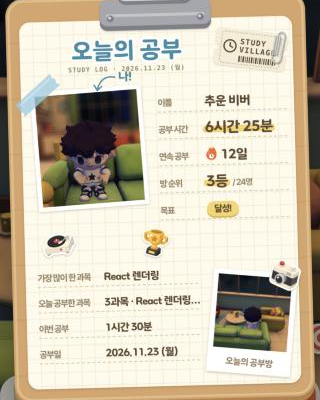
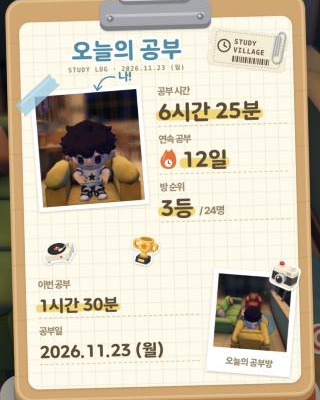
feat(web/study): trim the study sheet to time, streak, rank and date
The name, goal and subject rows are removed from the study sheet. The
remaining items are stacked as a small label over a large highlighted
value: study time, streak and room rank on the right, this session and
the study date below.

diff --git a/frontend/src/feature/study/recap/cardDraw.ts b/frontend/src/feature/study/recap/cardDraw.ts
@@ -1,7 +1,8 @@
 // "오늘의 공부" 시트: 스토리에 올려 오늘 공부한 결과를 자랑하는 클립보드 프로필 시트 한 장.
 // 구성은 사용자가 준 클립보드 프로필 레퍼런스(2026-11-23)를 따른다: 나무 판 + 금속 집게, 크림 종이, 큰 제목, 마스킹
-// 테이프로 붙인 내 사진("나!" 화살표), 오른쪽 항목 줄(이름·공부 시간·연속 공부·방 순위·목표), 아래 항목 줄(과목·이번 공부·
-// 공부일), 폴라로이드(오늘의 공부방), 티켓 스티커와 클립, 앱 스티커. 레퍼런스의 캐릭터·로고·문구는 쓰지 않는다.
+// 테이프로 붙인 내 사진("나!" 화살표), 오른쪽 큰 항목(공부 시간·연속 공부·방 순위), 아래 큰 항목(이번 공부·공부일),
+// 폴라로이드(오늘의 공부방), 티켓 스티커와 클립, 앱 스티커. 레퍼런스의 캐릭터·로고·문구는 쓰지 않는다.
+// 이름·목표·과목은 넣지 않고 남은 항목을 크게 쓴다(사용자 결정 2026-11-23).
 // 톤은 앱 공부 화면: 섬 팔레트 낮 값(tokens.css), 둥근 글꼴, 햇살 노랑 강조, 앱 스티커 아트(원본 PocketTime
 // assets/icons/study_*.png). 화면과 저장 이미지(인스타그램 스토리 1080×1920)는 같은 함수로 그린다.
 // 다크 모드에서 저장해도 같은 이미지가 나오도록 값은 낮 팔레트로 고정한다.
@@ -10,7 +11,7 @@ import { t } from '../../../l10n/t'
 import { webText } from '../../../l10n/web_ko'
 import { formatStudyDuration } from '../home/studyFormat'
 import { flameShape } from '../stats/StreakFlame'
-import { goalReached, type StudyRecap } from './studyRecap'
+import type { StudyRecap } from './studyRecap'
 
 /** 섬 팔레트 낮 값(tokens.css :root·.palette-day)과 판·집게 색. */
 const c = {
@@ -49,10 +50,9 @@ export type CardAssets = Record<keyof typeof stickerUrls, HTMLImageElement>
 /** 글꼴과 스티커 그림을 미리 읽는다(웹 글꼴은 처음 쓰일 때 내려받아 첫 그림에 빠질 수 있다). */
 export async function loadCardAssets(recap: StudyRecap): Promise<CardAssets> {
   const sample = [
-    webText.recapSheetTitle, webText.recapSheetBrand, webText.recapMe, webText.recapScene, recap.nickname, goalText(recap) ?? '',
-    ...Object.values(webText.recapFields), ...recap.subjects.map((s) => s.subject ?? t('studySubjectNone')),
+    webText.recapSheetTitle, webText.recapSheetBrand, webText.recapMe, webText.recapScene, ...Object.values(webText.recapFields),
     formatStudyDuration(recap.todaySeconds), formatStudyDuration(recap.sessionSeconds), webText.recapBrand,
-    '0123456789.·+/%!()시간분일등명과목월화수목금토일', t('studySubjectNone'),
+    '0123456789.·/!()시간분일등명월화수목금토일',
   ].join('')
   const load = (src: string) => new Promise<HTMLImageElement>((resolve, reject) => {
     const img = new Image()
@@ -66,15 +66,6 @@ export async function loadCardAssets(recap: StudyRecap): Promise<CardAssets> {
     ...[600, 700, 800].map((w) => document.fonts.load(`${w} 16px ${fonts.sans}`, sample)),
   ] as const)
   return { trophy, focus, music, camera }
-}
-
-/** 목표 줄: 채웠으면 "달성!", 못 채웠으면 "n%", 목표가 없고 어제보다 더 했으면 "어제보다 +n". 아니면 줄을 뺀다. */
-function goalText(recap: StudyRecap): string | null {
-  if (goalReached(recap)) return webText.recapGoalDone
-  if (recap.goalSeconds != null && recap.goalSeconds > 0) return webText.recapGoalPercentShort(Math.floor((recap.todaySeconds * 100) / recap.goalSeconds))
-  const diff = recap.todaySeconds - recap.yesterdaySeconds
-  if (diff > 0 && Math.trunc(diff / 60) > 0) return webText.recapMoreChip(formatStudyDuration(diff))
-  return null
 }
 
 const weekdays = ['월', '화', '수', '목', '금', '토', '일']
@@ -106,9 +97,9 @@ export function drawSheet(ctx: CanvasRenderingContext2D, recap: StudyRecap, asse
   drawTicket(ctx, recap, 322, top + 76)
   drawPortrait(ctx, recap)
   drawTopRows(ctx, recap)
-  sticker(ctx, assets.music, 64, top + 330, 46, -14)
-  if (recap.rank) sticker(ctx, assets.trophy, 192, top + 330, 40, 10)
-  else sticker(ctx, assets.focus, 192, top + 332, 36, 10)
+  sticker(ctx, assets.music, 64, top + 340, 46, -14)
+  if (recap.rank) sticker(ctx, assets.trophy, 178, top + 340, 42, 10)
+  else sticker(ctx, assets.focus, 178, top + 342, 38, 10)
   drawBottomRows(ctx, recap)
   drawPolaroid(ctx, recap, assets)
 }
@@ -242,64 +233,47 @@ function drawPortrait(ctx: CanvasRenderingContext2D, recap: StudyRecap) {
 
 type Row = { label: string; draw: (x: number, base: number, maxW: number) => void }
 
-/** 항목 줄 한 묶음: 라벨(굵은 갈색) + 값 + 점선 밑줄. */
-function rows(ctx: CanvasRenderingContext2D, list: Row[], x: number, valueX: number, right: number, startY: number, rowH: number) {
+/** 큰 항목 한 묶음: 라벨(작게, 위) → 값(크게, 아래) → 점선 밑줄. */
+function rows(ctx: CanvasRenderingContext2D, list: Row[], x: number, right: number, startY: number, rowH: number) {
   list.forEach((r, i) => {
-    const base = startY + i * rowH + rowH - 12
-    text(ctx, r.label, x, base, { font: `800 12px ${fonts.sans}`, color: c.inkSoft })
-    r.draw(valueX, base, right - valueX)
+    const y = startY + i * rowH
+    text(ctx, r.label, x, y + 15, { font: `800 13px ${fonts.sans}`, color: c.inkSoft })
+    const base = y + rowH - 16
+    r.draw(x, base, right - x)
     ctx.save()
     ctx.strokeStyle = c.dash; ctx.lineWidth = 1.2; ctx.setLineDash([4, 3])
-    ctx.beginPath(); ctx.moveTo(x, base + 8); ctx.lineTo(right, base + 8); ctx.stroke()
+    ctx.beginPath(); ctx.moveTo(x, base + 9); ctx.lineTo(right, base + 9); ctx.stroke()
     ctx.restore()
   })
 }
 
 function drawTopRows(ctx: CanvasRenderingContext2D, recap: StudyRecap) {
-  const goal = goalText(recap)
+  const big = `800 28px ${fonts.round}`
   const list: Row[] = [
-    { label: webText.recapFields.name, draw: (x, b, w) => text(ctx, ellipsize(ctx, recap.nickname, `800 16px ${fonts.round}`, w), x, b, { font: `800 16px ${fonts.round}`, color: c.ink }) },
-    { label: webText.recapFields.time, draw: (x, b) => highlight(ctx, formatStudyDuration(recap.todaySeconds), x, b, `800 19px ${fonts.round}`) },
+    { label: webText.recapFields.time, draw: (x, b) => highlight(ctx, formatStudyDuration(recap.todaySeconds), x, b, big) },
     { label: webText.recapFields.streak, draw: (x, b) => {
-      flame(ctx, x, b - 16, 18, recap.streakDays > 0)
-      text(ctx, t('studyStatsStreakValue', { count: recap.streakDays }), x + 20, b, { font: `800 17px ${fonts.round}`, color: recap.streakDays > 0 ? c.ink : c.inkSoft })
+      flame(ctx, x, b - 25, 28, recap.streakDays > 0)
+      highlight(ctx, t('studyStatsStreakValue', { count: recap.streakDays }), x + 30, b, big, recap.streakDays > 0 ? c.ink : c.inkSoft)
     } },
   ]
   if (recap.rank) {
     const rank = recap.rank
     list.push({ label: webText.recapFields.rank, draw: (x, b) => {
       const num = `${rank.position}${webText.recapRankUnit}`
-      highlight(ctx, num, x, b, `800 19px ${fonts.round}`)
-      text(ctx, webText.recapRankTotal(rank.total), x + measure(ctx, num, `800 19px ${fonts.round}`) + 6, b, { font: `700 11.5px ${fonts.sans}`, color: c.inkSoft })
+      highlight(ctx, num, x, b, big)
+      text(ctx, webText.recapRankTotal(rank.total), x + measure(ctx, num, big) + 8, b, { font: `800 14px ${fonts.sans}`, color: c.inkSoft })
     } })
   }
-  if (goal) {
-    list.push({ label: webText.recapFields.goal, draw: (x, b) => {
-      if (goalReached(recap)) {
-        const font = `800 12.5px ${fonts.sans}`
-        const w = measure(ctx, goal, font) + 20
-        ctx.fillStyle = c.sunLedge; ctx.beginPath(); ctx.roundRect(x, b - 15 + 2, w, 20, 10); ctx.fill()
-        ctx.fillStyle = c.sun; ctx.beginPath(); ctx.roundRect(x, b - 15, w, 20, 10); ctx.fill()
-        text(ctx, goal, x + 10, b - 1, { font, color: c.onSun })
-      } else {
-        text(ctx, goal, x, b, { font: `800 14px ${fonts.round}`, color: c.ink })
-      }
-    } })
-  }
-  rows(ctx, list, 200, 262, 372, top + 124, 36)
+  rows(ctx, list, 200, 372, top + 118, 64)
 }
 
 function drawBottomRows(ctx: CanvasRenderingContext2D, recap: StudyRecap) {
-  const names = recap.subjects.map((s) => s.subject ?? t('studySubjectNone'))
-  const valueFont = `800 13.5px ${fonts.round}`
-  const plain = (value: string) => (x: number, b: number, w: number) => text(ctx, ellipsize(ctx, value, valueFont, w), x, b, { font: valueFont, color: c.ink })
+  const font = `800 22px ${fonts.round}`
   const list: Row[] = [
-    { label: webText.recapFields.topSubject, draw: plain(names[0] ?? t('studySubjectNone')) },
-    { label: webText.recapFields.subjects, draw: plain(names.length > 0 ? `${webText.recapSubjectCount(names.length)} · ${names.join(', ')}` : t('studySubjectNone')) },
-    { label: webText.recapFields.session, draw: plain(formatStudyDuration(recap.sessionSeconds)) },
-    { label: webText.recapFields.date, draw: plain(dateText(recap.studyDate)) },
+    { label: webText.recapFields.session, draw: (x, b) => highlight(ctx, formatStudyDuration(recap.sessionSeconds), x, b, font) },
+    { label: webText.recapFields.date, draw: (x, b, w) => text(ctx, ellipsize(ctx, dateText(recap.studyDate), font, w), x, b, { font, color: c.ink }) },
   ]
-  rows(ctx, list, 34, 122, 250, top + 356, 34)
+  rows(ctx, list, 34, 250, top + 372, 62)
 }
 
 /** 폴라로이드: 3인칭으로 본 오늘의 공부방, 아래 여백에 글씨, 카메라 스티커. */
@@ -377,11 +351,12 @@ function photo(ctx: CanvasRenderingContext2D, img: HTMLCanvasElement | null, x: 
 }
 
 /** 숫자에 햇살 형광펜을 긋고 쓴다. */
-function highlight(ctx: CanvasRenderingContext2D, value: string, x: number, base: number, font: string) {
+function highlight(ctx: CanvasRenderingContext2D, value: string, x: number, base: number, font: string, color: string = c.ink) {
   const w = measure(ctx, value, font)
+  const size = Number(/(\d+)px/.exec(font)?.[1] ?? 16)
   ctx.fillStyle = c.sun
-  ctx.beginPath(); ctx.roundRect(x - 3, base - 8, w + 6, 9, 4); ctx.fill()
-  text(ctx, value, x, base, { font, color: c.ink })
+  ctx.beginPath(); ctx.roundRect(x - 3, base - size * 0.42, w + 6, size * 0.48, size * 0.2); ctx.fill()
+  text(ctx, value, x, base, { font, color })
 }
 
 function sticker(ctx: CanvasRenderingContext2D, img: HTMLImageElement, cx: number, cy: number, size: number, deg: number) {

diff --git a/frontend/src/l10n/web_ko.ts b/frontend/src/l10n/web_ko.ts
@@ -33,22 +33,14 @@ export const webText = {
   recapMe: '나!',
   recapScene: '오늘의 공부방',
   recapFields: {
-    name: '이름',
     time: '공부 시간',
     streak: '연속 공부',
     rank: '방 순위',
-    goal: '목표',
-    topSubject: '가장 많이 한 과목',
-    subjects: '오늘 공부한 과목',
     session: '이번 공부',
     date: '공부일',
   },
   recapRankUnit: '등',
   recapRankTotal: (total: number) => `/ ${total}명`,
-  recapSubjectCount: (count: number) => `${count}과목`,
-  recapGoalDone: '달성!',
-  recapGoalPercentShort: (percent: number) => `${percent}%`,
-  recapMoreChip: (duration: string) => `어제보다 +${duration}`,
   recapSave: '이미지 저장',
   recapSaving: '이미지를 만드는 중',
   recapShare: '공유하기',

diff --git a/frontend/src/feature/study/recap/studyRecap.ts b/frontend/src/feature/study/recap/studyRecap.ts
@@ -51,7 +51,3 @@ export function buildRecap(input: {
     rank: null,
   }
 }
-
-export function goalReached(recap: StudyRecap): boolean {
-  return recap.goalSeconds != null && recap.goalSeconds > 0 && recap.todaySeconds >= recap.goalSeconds
-}

diff --git a/docs/design-parity/exceptions.md b/docs/design-parity/exceptions.md
@@ -22,6 +22,6 @@
 - **3D 방 부드러운 룩(기본)**: 셀 셰이딩 단 대신 넓은 감싸기 조명(빛 쪽 크림·그늘 쪽 라벤더)과 반구 조명, 화면 공간 접촉 그늘(½ 해상도 8탭, 높은 단계만), 그 자리 색을 어둡게 한 외곽선, 파스텔 보정(생기·부드러운 어깨·분할 톤). 예전 카툰 룩은 `?look=toon`, 앱 그림은 `?look=app`. 비교: `room_v2/soft_look_vs_toon.jpg`. 감성 보강(같은 날): 창밖 하늘에서 모은 빛줄기(½ 해상도 40탭, 높은 단계만), 먼 곳 공기 원근(위 하늘빛·아래 크림), 살구빛 할레이션, 오른쪽 위 빛샘, 비네트 0.18. `room_v2/mood_pass.jpg`(이전 / 오후 16시 / 밤). 개발 빌드는 `?hour=16`으로 시각을 고정해 본다. 사용자 결정(2026-11-23 "셰이더 대격변").
 - **3D 방 선명한 룩(기본, 같은 날 교체)**: 사용자 참고 이미지(게임 아트 거리)를 따라 따뜻한 해·푸른 그늘의 좁고 부드러운 조명 경계, 채도 +22%·S 곡선 대비, 그늘 푸름·빛 따뜻함 분할 톤, 푸른 접촉 그늘, 아주 옅은 색 외곽선, 공기·빛샘·빛줄기·그레인 없음, 비네트 0.12. 몽환 파스텔은 `?look=soft`. 비교: `room_v2/vivid_look.jpg`(soft 오후 / vivid 오후 / vivid 밤).
 - **3인칭 카메라 자유 조작**: 앱은 좌우로 끌어 내 자리 둘레만 돈다. 웹은 위아래로 끌어 내려다보는 각도(기본 30° ±, 5–80°)도 바꾸고, 휠·두 손가락 벌리기로 거리(0.65–2.2배)를 바꾸며, 두 번 누르면 기본 시점으로 돌아간다. 카메라는 천장(3.9m) 아래로 거리를 줄인다. 사용자 결정(2026-11-23).
-- **공부 요약("오늘의 공부" 시트, 앱에 없는 화면)**: 스토리에 올려 오늘 공부한 결과를 자랑하는 클립보드 프로필 시트 한 장. 구성은 사용자가 준 클립보드 프로필 레퍼런스(2026-11-23)를 따르되 캐릭터·로고·문구는 쓰지 않는다: 나무 판과 금속 집게, 모눈 크림 종이, 큰 제목 "오늘의 공부"(둥근 글꼴 호수 청록 + 흰 테두리)와 STUDY LOG·공부일, 티켓 스티커(STUDY VILLAGE·날짜 바코드)와 클립, 마스킹 테이프로 붙인 정면 프로필 사진과 "나!" 화살표, 오른쪽 항목 줄(이름·공부 시간(햇살 형광펜)·연속 공부(불꽃)·방 순위(서버 값이 있을 때만)·목표(달성은 햇살 알약, 아니면 n% 또는 어제보다 +n)), 앱 스티커(LP·트로피(순위 있을 때) 또는 과녁), 아래 항목 줄(가장 많이 한 과목·오늘 공부한 과목·이번 공부·공부일), 3인칭으로 찍은 "오늘의 공부방" 폴라로이드와 카메라 스티커(앱 스티커 아트, 원본 `assets/icons/study_*.png`). 사진은 끝내기 직전에 3D 방에서 두 장 찍는다(정면은 벽이 가리지 않게 가까운 면을 사람 앞 0.75m까지 당김). 사진이 없으면 시계 무늬 빈 칸. 홀로그램 포일은 종이 시트와 맞지 않아 뺐다. 방 순위는 서버 랭킹(계획 5단계)이 없어 실제 흐름에서는 줄을 숨기고 개발용 표본 주소에서만 채운다. 공부방 위에 시트와 섬 단추(이미지 저장·공유(지원 시)·닫기)만 뜨고 방은 흐리지 않고 검정 35%로만 어둡게 한다. 저장 이미지(스토리 1080×1920)는 시계 무늬 호수 위 같은 시트 + StudyVillage. 섬 팔레트 낮 값으로 고정. 개발 빌드 전용 상시 확인 주소: `/?recap=goal`, `/?recap=more`, `/?recap=plain` — `recap/useRecapDemo.ts`. 캡처: `recap/sheet_modal.png`, `recap/sheet_story_no_photo.png`(사진 없는 상태). 사용자 결정(2026-11-23).
+- **공부 요약("오늘의 공부" 시트, 앱에 없는 화면)**: 스토리에 올려 오늘 공부한 결과를 자랑하는 클립보드 프로필 시트 한 장. 구성은 사용자가 준 클립보드 프로필 레퍼런스(2026-11-23)를 따르되 캐릭터·로고·문구는 쓰지 않는다: 나무 판과 금속 집게, 모눈 크림 종이, 큰 제목 "오늘의 공부"(둥근 글꼴 호수 청록 + 흰 테두리)와 STUDY LOG·공부일, 티켓 스티커(STUDY VILLAGE·날짜 바코드)와 클립, 마스킹 테이프로 붙인 정면 프로필 사진과 "나!" 화살표, 오른쪽 큰 항목(라벨 위·값 아래, 햇살 형광펜: 공부 시간·연속 공부(불꽃)·방 순위(서버 값이 있을 때만)), 앱 스티커(LP·트로피(순위 있을 때) 또는 과녁), 아래 큰 항목(이번 공부·공부일). 이름·목표 달성·과목은 넣지 않는다(사용자 결정), 3인칭으로 찍은 "오늘의 공부방" 폴라로이드와 카메라 스티커(앱 스티커 아트, 원본 `assets/icons/study_*.png`). 사진은 끝내기 직전에 3D 방에서 두 장 찍는다(정면은 벽이 가리지 않게 가까운 면을 사람 앞 0.75m까지 당김). 사진이 없으면 시계 무늬 빈 칸. 홀로그램 포일은 종이 시트와 맞지 않아 뺐다. 방 순위는 서버 랭킹(계획 5단계)이 없어 실제 흐름에서는 줄을 숨기고 개발용 표본 주소에서만 채운다. 공부방 위에 시트와 섬 단추(이미지 저장·공유(지원 시)·닫기)만 뜨고 방은 흐리지 않고 검정 35%로만 어둡게 한다. 저장 이미지(스토리 1080×1920)는 시계 무늬 호수 위 같은 시트 + StudyVillage. 섬 팔레트 낮 값으로 고정. 개발 빌드 전용 상시 확인 주소: `/?recap=goal`, `/?recap=more`, `/?recap=plain` — `recap/useRecapDemo.ts`. 캡처: `recap/sheet_modal.png`, `recap/sheet_story_no_photo.png`(사진 없는 상태). 사용자 결정(2026-11-23).
 - **공부방 태그·추천(앱에 없는 기능)**: 공부방 목록 맨 위에 "나와 같은 공부" 칸(밤하늘 위 흰 제목, 내 태그 알약, 오른쪽 "태그 수정" 섬 단추, 아래 같은 카드 2열). 내 태그가 없으면 같은 자리에 종이 카드 안내와 "태그 고르기" 햇살 단추. 겹치는 방이 없으면 빈 상태 그림 대신 한 줄 안내(방이 많아 보여야 해서 큰 빈 그림을 두지 않음). 카드에는 소개 아래 초록 `#태그` 한 줄. "내 공부 태그" 시트는 과목 고르기 시트(PaperSheet·턱 있는 알약 칩·둥근 입력칸)를 따르고, 고른 태그는 초록 알약. 문구는 `l10n/web_tags_ko.ts`(새로 씀). 검색 중에는 추천 칸을 숨긴다. 캡처: `tags/rooms_recommended_mobile.jpg`, `tags/my_tags_sheet.jpg`. 사용자 결정(2026-11-23, `docs/plan/study-tags.md`).
 - **월드 고정 하늘·가까운 면**: 앱은 하늘을 화면 한 장으로 그려 카메라를 돌려도 달·해가 화면에 붙어 있다. 웹은 카메라를 따라다니는 하늘 구(`three/skyDome.ts`)에 그려 달·해·별이 창문과 함께 움직이고(해·달은 자리들이 보는 쪽 하늘을 가로지름), 카메라 가까운 면을 0.1→0.3m, 먼 면을 80m로 바꿔 창틀·문틀·벽·그림 사이 깊이 경쟁을 줄였다. 사용자 버그 신고(2026-11-23).
